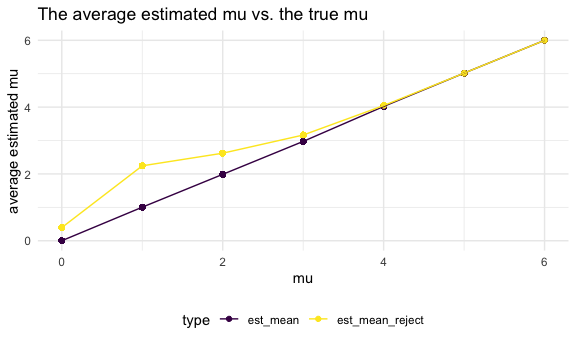
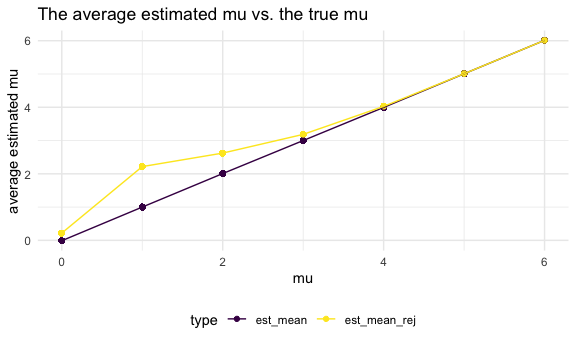
description updates

diff --git a/P8105_HW5_ys3295.md b/P8105_HW5_ys3295.md
@@ -273,11 +273,12 @@ test_df %>%
   - The figure showed that the power will increase with the effect size
     increasing, given that alpha and sample size keep constant.
 
+-----
+
 Make two plots.
 
 ``` r
-df = 
-  sim_results %>% 
+df=sim_results %>% 
   mutate(
     test_results = case_when(p.value < 0.05 ~ "reject",
                             p.value >= 0.05 ~ "fail to reject")
@@ -287,14 +288,14 @@ df =
   ungroup() %>% 
   group_by(mu, test_results) %>% 
   filter(test_results == "reject") %>% 
-  mutate(est_mean_reject = mean(estimate)) %>% 
+  mutate(est_mean_rej = mean(estimate)) %>% 
   pivot_longer(
-    cols = c(est_mean, est_mean_reject),
+    cols = c(est_mean, est_mean_rej),
     names_to = "type",
     values_to = "est_mean_mu"
   )
 
-df %>% 
+df%>% 
   ggplot(aes(x = mu, y = est_mean_mu, color = type)) + 
   geom_point() + 
   geom_path()+
@@ -303,3 +304,13 @@ df %>%
 ```
 
 <img src="P8105_HW5_ys3295_files/figure-gfm/unnamed-chunk-16-1.png" width="90%" />
+
+  - According to the plot, it is found that the sample average of
+    estimated mu across test for which the null is rejected is different
+    from the true mu. As the effect size increases, the sample average
+    estimated mu across test for which the null is rejected is closer or
+    approximately equals to the true value of mu. For the test in which
+    the null is rejected, the random error is larger. In other words, if
+    only estimated mu for these samples are calculated, larger random
+    error will be generated and the estimated mean will be more away
+    from the true mu.
